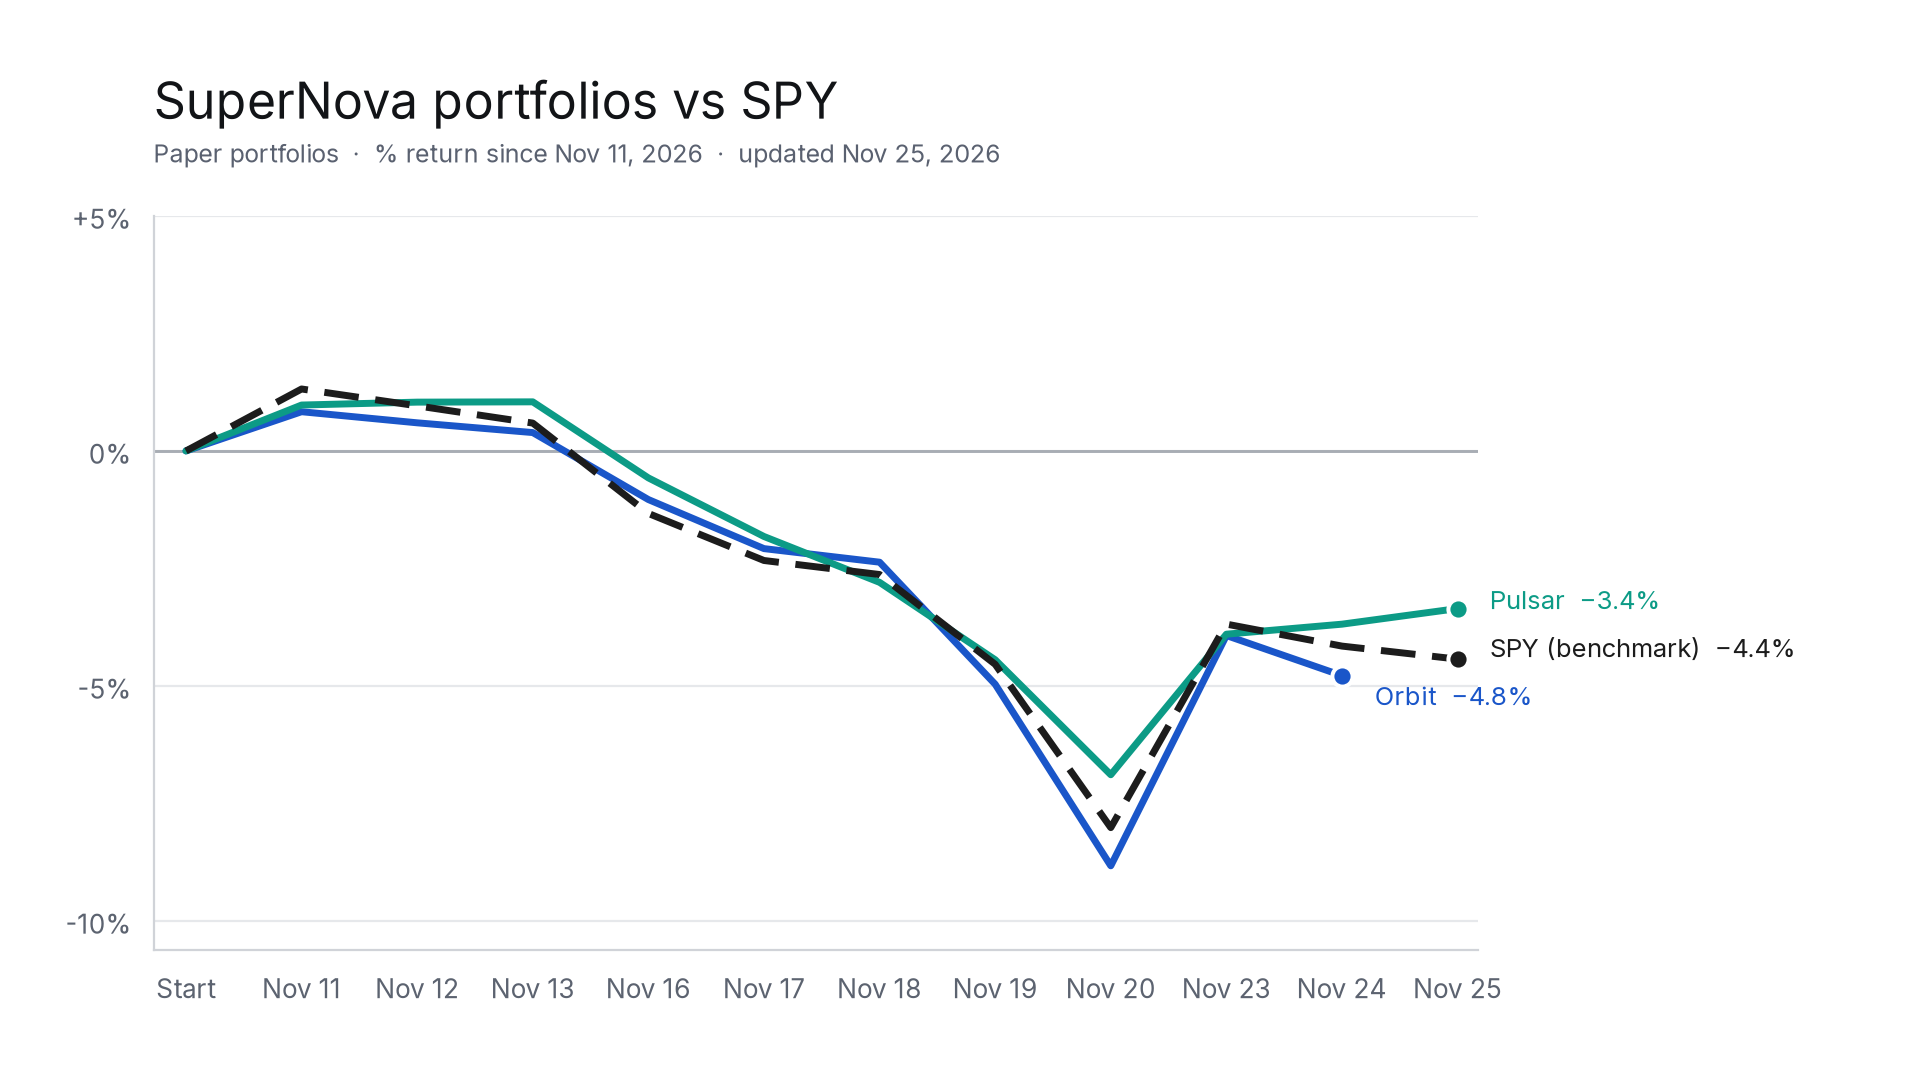
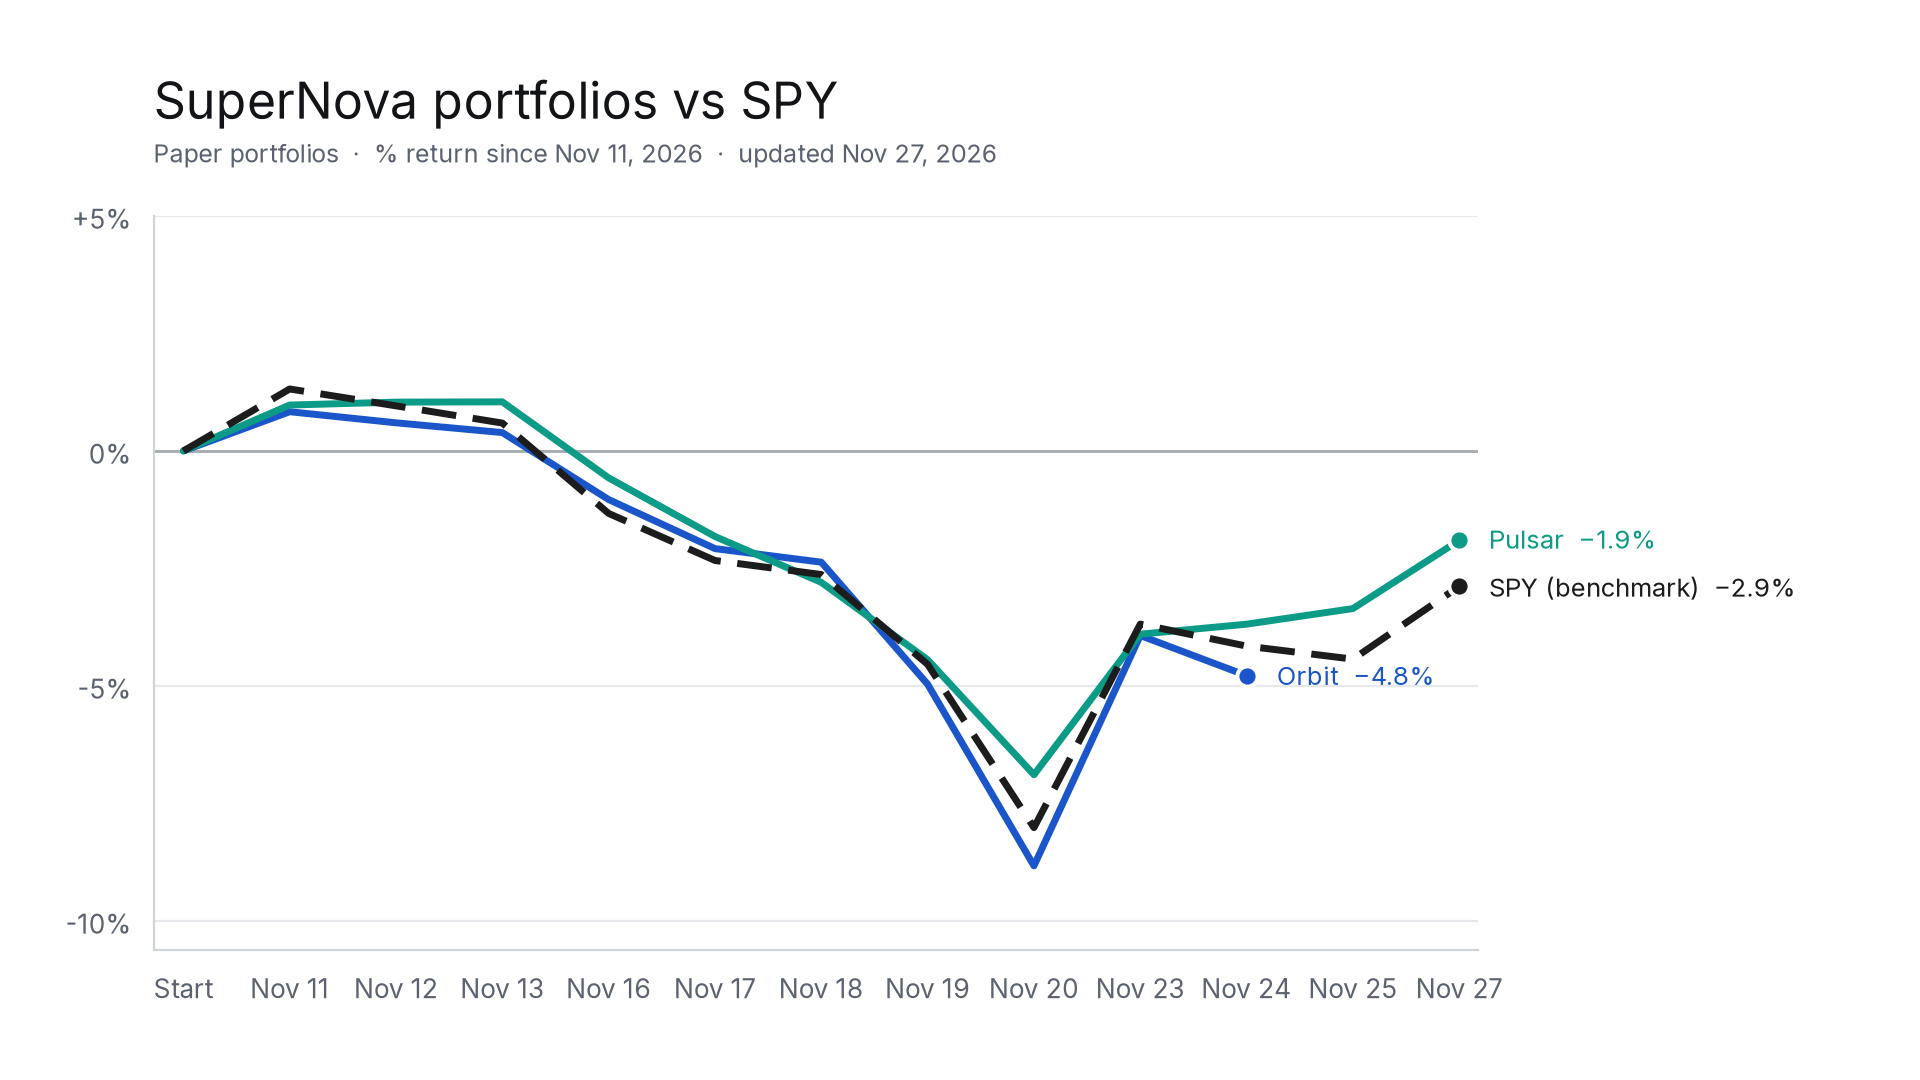
Update for 2026-11-27

diff --git a/README.md b/README.md
@@ -11,7 +11,7 @@ Paper portfolios, percent return since November 11, 2026, compared with SPY.
 | Portfolio | Start value (Nov 11, 2026) | Latest close | Return | SPY same period |
 |---|---|---|---|---|
 | SuperNova Orbit | $6,760.60 | $6,437.37 (Nov 24) | -4.78% | -4.15% |
-| SuperNova Pulsar | $6,988.14 | $6,753.78 (Nov 25) | -3.35% | -4.43% |
+| SuperNova Pulsar | $6,988.14 | $6,855.18 (Nov 27) | -1.90% | -2.88% |
 
 **SuperNova Orbit** is a concentrated growth portfolio of up to 20 high-conviction U.S. stocks, built to compete against the S&P 500. It pairs leaders in fast-growing themes like technology with a core of high-quality companies, and shifts weight toward what is working. Risk is managed with strict position and sector limits, a small cash buffer and a disciplined drawdown process. I do not trade it on a fixed schedule; I only make changes when my risk and position triggers fire.
 
